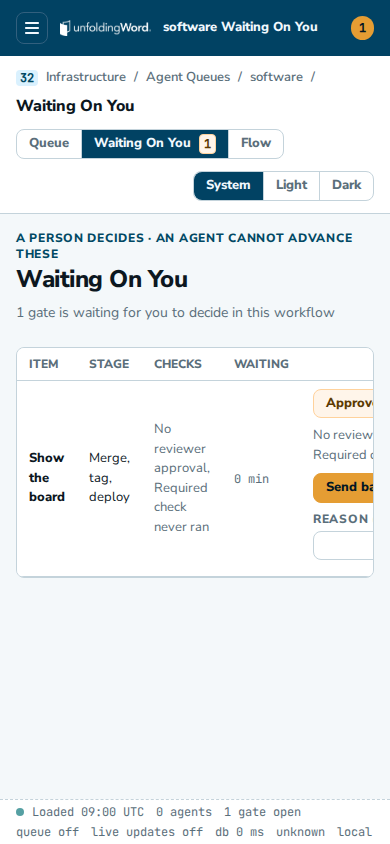
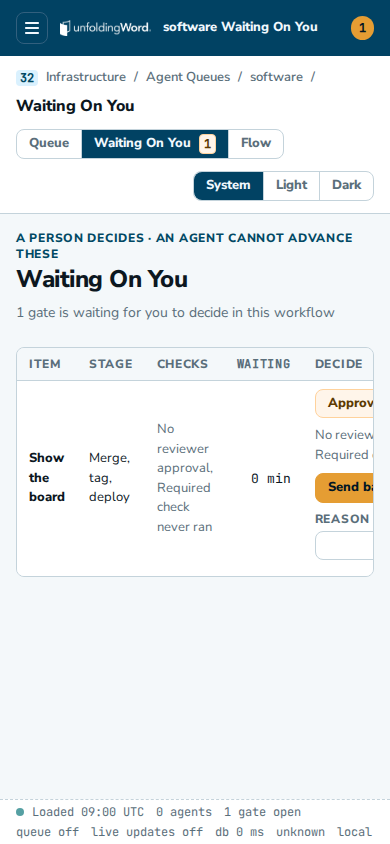
fix(ui): build the Waiting On You rows on the shared Table (#106)

diff --git a/apps/uw-app/views/parts/waiting-table.tsx b/apps/uw-app/views/parts/waiting-table.tsx
@@ -1,7 +1,9 @@
+import type { Child } from 'hono/jsx';
 import type { GateView } from '@uw/contracts';
 import { CommandForm } from '@uw/ui/components/command-form.tsx';
 import { TextField } from '@uw/ui/components/field.tsx';
 import { HumanActionButton } from '@uw/ui/components/human-action.tsx';
+import { Table, type Column } from '@uw/ui/components/table.tsx';
 import { reasonText } from '@uw/ui/components/text.ts';
 import { refusalsOf } from './gate-panel.tsx';
 import type { Shown } from './gate-rows.tsx';
@@ -9,8 +11,6 @@ import { gatePath } from './paths.ts';
 import { failingReasons, reasonsText } from './ship-input.tsx';
 
 const focus = 'outline-offset-2 outline-accent-text focus-visible:outline-2';
-const cell = 'border-b border-line px-3 py-2 align-top';
-const head = 'border-b border-line px-3 py-2 text-left text-xs font-heavy uppercase text-text-3';
 
 function reviewsText(view: GateView): string | null {
   const count = view.ship?.input.approvals.length ?? 0;
@@ -69,60 +69,47 @@ function Actions(props: { readonly shown: Shown }) {
   );
 }
 
-function Row(props: { readonly shown: Shown }) {
+const columns: readonly Column[] = [
+  { key: 'item', label: 'Item' },
+  { key: 'stage', label: 'Stage' },
+  { key: 'checks', label: 'Checks' },
+  { key: 'waiting', label: 'Waiting', numeric: true },
+  { key: 'decide', label: 'Decide' },
+];
+
+function ItemCell(props: { readonly shown: Shown }) {
   const { row, gate } = props.shown;
   const number = gate.place?.number ?? null;
   return (
-    <tr data-gate-row={row.item.itemId}>
-      <td class={cell}>
-        <a
-          href={gatePath(row.harness.id, row.item.itemId)}
-          class={`font-heavy text-text hover:text-accent-text hover:underline ${focus}`}
-        >
-          {row.item.title}
-        </a>
-        {number === null ? null : <span class="block font-mono text-xs text-text-3">{number}</span>}
-      </td>
-      <td class={cell}>{row.stage.title}</td>
-      <td class={`${cell} text-sm text-text-3`}>{checksText(gate.view)}</td>
-      <td class={`${cell} font-mono text-xs text-text-3`}>{gate.place?.waited ?? ''}</td>
-      <td class={cell}>
-        <Actions shown={props.shown} />
-      </td>
-    </tr>
+    <>
+      <a
+        href={gatePath(row.harness.id, row.item.itemId)}
+        class={`font-heavy text-text hover:text-accent-text hover:underline ${focus}`}
+      >
+        {row.item.title}
+      </a>
+      {number === null ? null : <span class="block font-mono text-xs text-text-3">{number}</span>}
+    </>
   );
+}
+
+function rowOf(shown: Shown): Readonly<Record<string, Child>> {
+  const { row, gate } = shown;
+  return {
+    item: <ItemCell shown={shown} />,
+    stage: row.stage.title,
+    checks: <span class="text-text-3">{checksText(gate.view)}</span>,
+    waiting: gate.place?.waited ?? '',
+    decide: <Actions shown={shown} />,
+  };
 }
 
 export function WaitingTable(props: { readonly shown: readonly Shown[] }) {
   return (
-    <div class="overflow-x-auto rounded-md border border-line bg-surface">
-      <table class="w-full border-collapse text-sm">
-        <caption class="sr-only">Gates waiting for you to decide</caption>
-        <thead>
-          <tr>
-            <th scope="col" class={head}>
-              Item
-            </th>
-            <th scope="col" class={head}>
-              Stage
-            </th>
-            <th scope="col" class={head}>
-              Checks
-            </th>
-            <th scope="col" class={head}>
-              Waiting
-            </th>
-            <th scope="col" class={head}>
-              <span class="sr-only">Decide</span>
-            </th>
-          </tr>
-        </thead>
-        <tbody>
-          {props.shown.map((shown) => (
-            <Row shown={shown} />
-          ))}
-        </tbody>
-      </table>
-    </div>
+    <Table
+      caption="Gates waiting for you to decide"
+      columns={columns}
+      rows={props.shown.map(rowOf)}
+    />
   );
 }

diff --git a/apps/uw-app/views/waiting.pg.test.ts b/apps/uw-app/views/waiting.pg.test.ts
@@ -60,13 +60,13 @@ async function inGates(work: (world: GateWorld) => Promise<void>): Promise<void>
 }
 
 function rowTitles(document: Document): readonly string[] {
-  return [...document.querySelectorAll('main [data-gate-row] a[href*="/gates/"]')].map(
+  return [...document.querySelectorAll('main tbody tr a[href*="/gates/"]')].map(
     (link) => link.textContent ?? '',
   );
 }
 
 function rowButtons(document: Document): readonly string[] {
-  return [...document.querySelectorAll('main [data-gate-row] button[name="decision"]')].map(
+  return [...document.querySelectorAll('main tbody tr button[name="decision"]')].map(
     (button) => button.textContent ?? '',
   );
 }
@@ -76,10 +76,10 @@ function waitingTab(document: Document): Element | null {
 }
 
 function rowFields(document: Document, itemId: string): Record<string, string> {
-  const row = [...document.querySelectorAll('main [data-gate-row]')].find(
-    (candidate) => candidate.getAttribute('data-gate-row') === itemId,
+  const form = [...document.querySelectorAll('main form[data-command="decide"]')].find(
+    (candidate) =>
+      candidate.querySelector('input[name="itemId"]')?.getAttribute('value') === itemId,
   );
-  const form = row?.querySelector('form[data-command="decide"]');
   return Object.fromEntries(
     [...(form?.querySelectorAll('input[name]') ?? [])].map((control) => [
       control.getAttribute('name') ?? '',
@@ -98,7 +98,7 @@ async function listsThisWorkflowOnly(world: GateWorld): Promise<void> {
   const other = await parkedAtSignOff(world);
   const here = await documentOf(world, world.rowanEmail, waitingPath(world.item.harnessId));
   expect(rowTitles(here)).toEqual([world.item.title]);
-  expect(here.querySelector('main [data-gate-row] a[href*="/gates/"]')?.getAttribute('href')).toBe(
+  expect(here.querySelector('main tbody tr a[href*="/gates/"]')?.getAttribute('href')).toBe(
     gatePath(world.item.harnessId, world.item.itemId),
   );
   const there = await documentOf(world, world.rowanEmail, waitingPath(other.harnessId));
